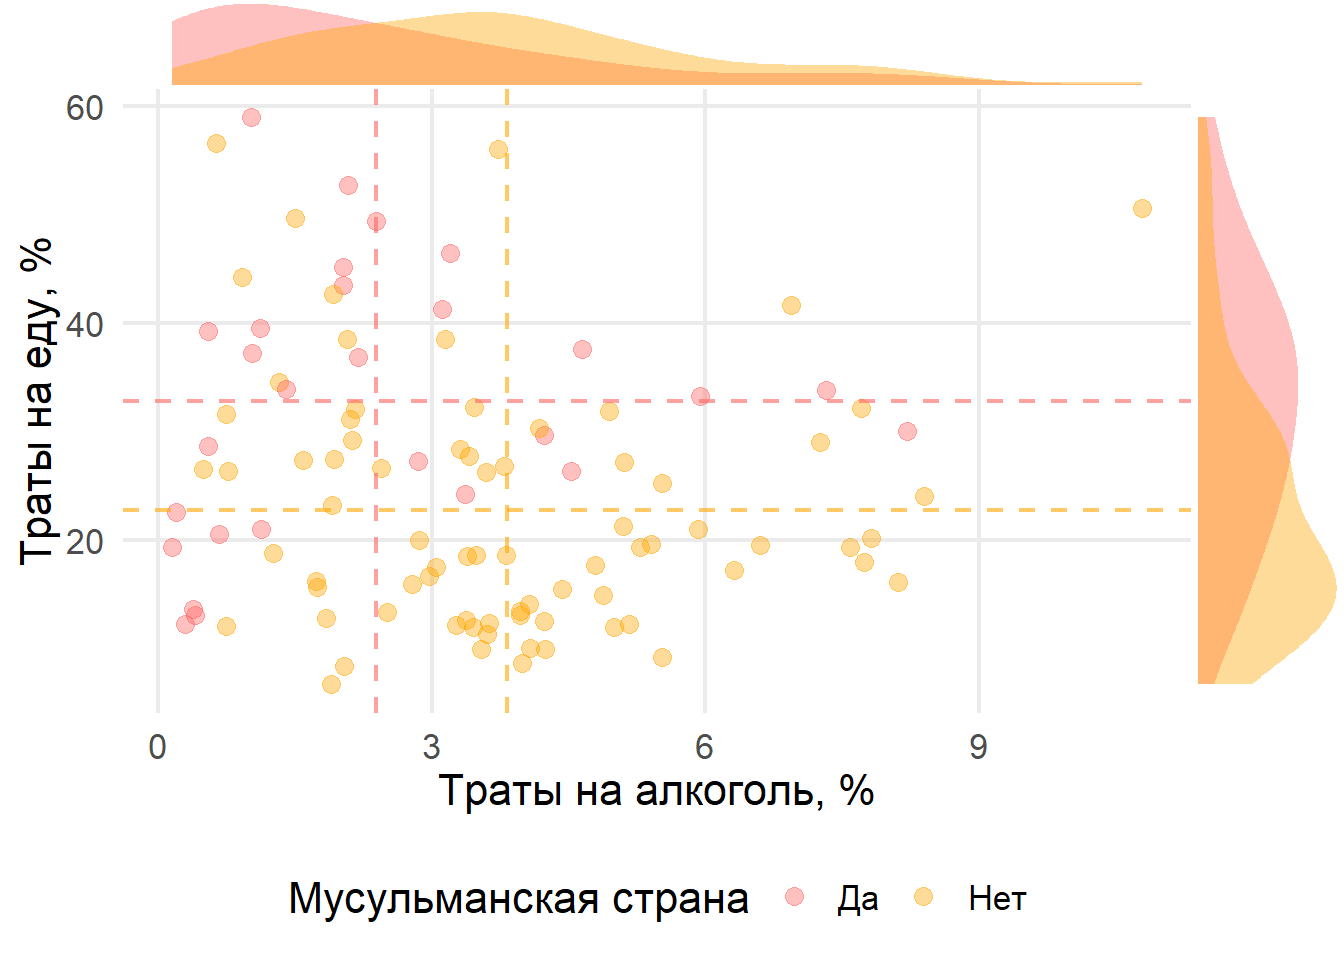
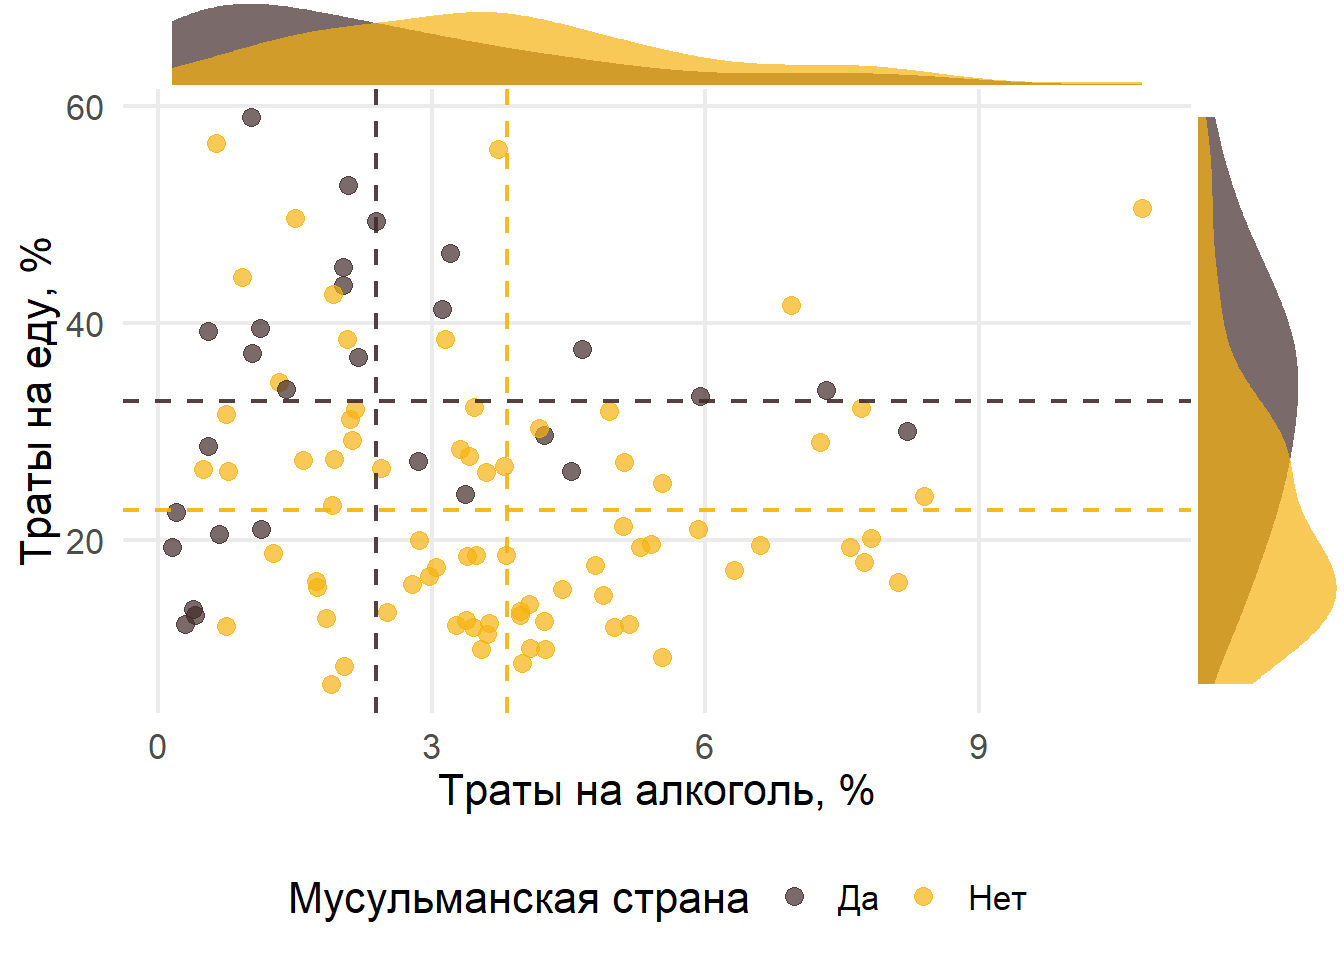
Tut_5_color_upd

diff --git a/content/gg/Tutorial_5/Tut_5.md b/content/gg/Tutorial_5/Tut_5.md
@@ -116,9 +116,9 @@ data %>% head %>% kableExtra::kable()
 
 
 ```r
-color_1 <- c('#ff6361', '#ffa600')
-alpha_default <- 0.4
-density_size= 7
+color_1 <- c('#412A29', '#F6B20E')
+alpha_default <- 0.7
+density_size = 7
 ```
 
 Делайте графики с кастомными цветами! Палитры на любой вкус можно сгенерировать или выбрать, например, на [Data color picker](https://www.learnui.design/tools/data-color-picker.html) или [Pigment](https://pigment.shapefactory.co/)
@@ -236,19 +236,19 @@ d <-
       ymax = `Медиана, еда` + size_cross,
       color = `Мусульманская страна`),
     inherit.aes = F,
-    width = .6,# попробуйте изменить этот параметр
+    width = .3,# попробуйте изменить этот параметр
     size = .8,# попробуйте изменить этот параметр
     show.legend = F,
     alpha = alpha_default + 0.3
   ) +
   geom_errorbar(data = summary_data,# Горизонтальная часть.
     aes(y = `Медиана, еда`,
-      xmin = `Медиана, алк` - size_cross * 0.3,
-      xmax = `Медиана, алк` + size_cross * 0.3,
+      xmin = `Медиана, алк` - size_cross * 0.25,
+      xmax = `Медиана, алк` + size_cross * 0.25,
       color = `Мусульманская страна`),
     inherit.aes = F,
     width = 0.8,
-    size = 0.8,
+    size = 1,
     show.legend = F,# попробуйте изменить этот параметр
     alpha = alpha_default + 0.3 # попробуйте изменить этот параметр
   )
@@ -262,7 +262,7 @@ ggsave(file = "density_multilevel.png", dpi = 500,
 
 <center>
 
-![plot](https://github.com/ETymch/Econometrics_2023/blob/main/Pics/density_multilevel.png?raw=true)
+![plot](https://github.com/ETymch/Econometrics_2023/blob/main/Pics/density_multilevel_1.png?raw=true)
 
 </center>
 
